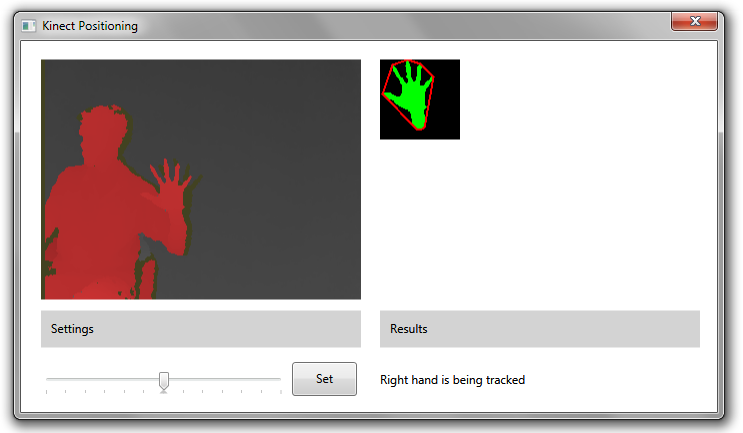
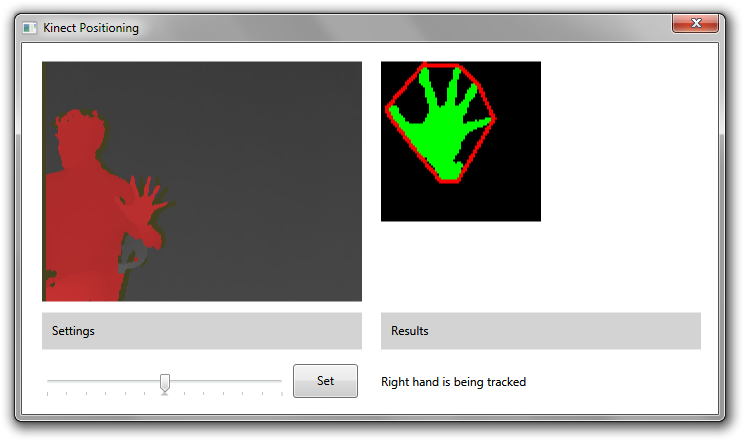
Displays a bigger image for the hand

Changed region(s): [[0.0, 0.0, 0.9906, 1.0], [0.0619, 0.5104, 0.0929, 0.5704]]

diff --git a/KinectHands/MainWindow.xaml b/KinectHands/MainWindow.xaml
@@ -7,7 +7,7 @@
         <TextBlock Background="LightGray" Margin="12,263,0,0" Padding="10" Text="Settings" Name="textRange" HorizontalAlignment="Left" Width="320" Height="37" VerticalAlignment="Top" />
         <TextBlock Background="LightGray" Height="37" HorizontalAlignment="Left" Margin="351,263,0,0" Name="textBlock1" Padding="10" Text="Results" VerticalAlignment="Top" Width="320" />
         <TextBlock Height="26" HorizontalAlignment="Left" Margin="351,324,0,0" Name="textResult" Text="0 blobs detected." VerticalAlignment="Top" Width="193" />
-        <Image Height="80" HorizontalAlignment="Left" Margin="351,12,0,0" Name="procImageDisplay" Stretch="Fill" VerticalAlignment="Top" Width="80" />
+        <Image Height="160" HorizontalAlignment="Left" Margin="351,12,0,0" Name="procImageDisplay" Stretch="Fill" VerticalAlignment="Top" Width="160" />
         <Slider Height="25" HorizontalAlignment="Left" IsSelectionRangeEnabled="True" IsSnapToTickEnabled="True" Margin="12,324,0,0" Maximum="30" Minimum="-30" Name="sliderTilt" TickFrequency="5" Value="0" VerticalAlignment="Top" Width="245" TickPlacement="BottomRight" />
         <TextBlock HorizontalAlignment="Left" Margin="17,404,0,83" Name="textBlock3" Text="Kinect tilt" Width="56" />
         <Button Content="Set" Height="34" HorizontalAlignment="Left" Margin="263,314,0,0" Name="buttonTilt" VerticalAlignment="Top" Width="65" Click="buttonTilt_Click" />

diff --git a/KinectHands/MainWindow.xaml.cs b/KinectHands/MainWindow.xaml.cs
@@ -103,7 +103,7 @@ namespace KinectHands
                 int minDepth = 850;
                 int maxDepth = 4000;
 
-                System.Drawing.Bitmap outBmp = new System.Drawing.Bitmap(80, 80);
+                System.Drawing.Bitmap outBmp = new System.Drawing.Bitmap(160, 160);
                 BitmapSource depthBitmapSource;
                 BitmapSource processedBitmapSource;
 
@@ -137,7 +137,7 @@ namespace KinectHands
                 }
                 else
                 {
-                    textResult.Text = "A hand not yet detected";
+                    textResult.Text = "No hand detected";
 
                     //depthBitmapSource = sliceDepthImage(depthFrame, 850, 1500);
 

diff --git a/KinectHands/ImageProcessor.cs b/KinectHands/ImageProcessor.cs
@@ -59,7 +59,10 @@ namespace KinectHands
             //g.DrawRectangle(redPen, roi);
             //g.DrawEllipse(redPen, x, y, 20, 20);
 
-            return outimage;
+            ResizeNearestNeighbor resizeFilter = new ResizeNearestNeighbor(160, 160);
+            Bitmap resizedImage = resizeFilter.Apply(outimage);
+
+            return resizedImage;
         }
 
 
